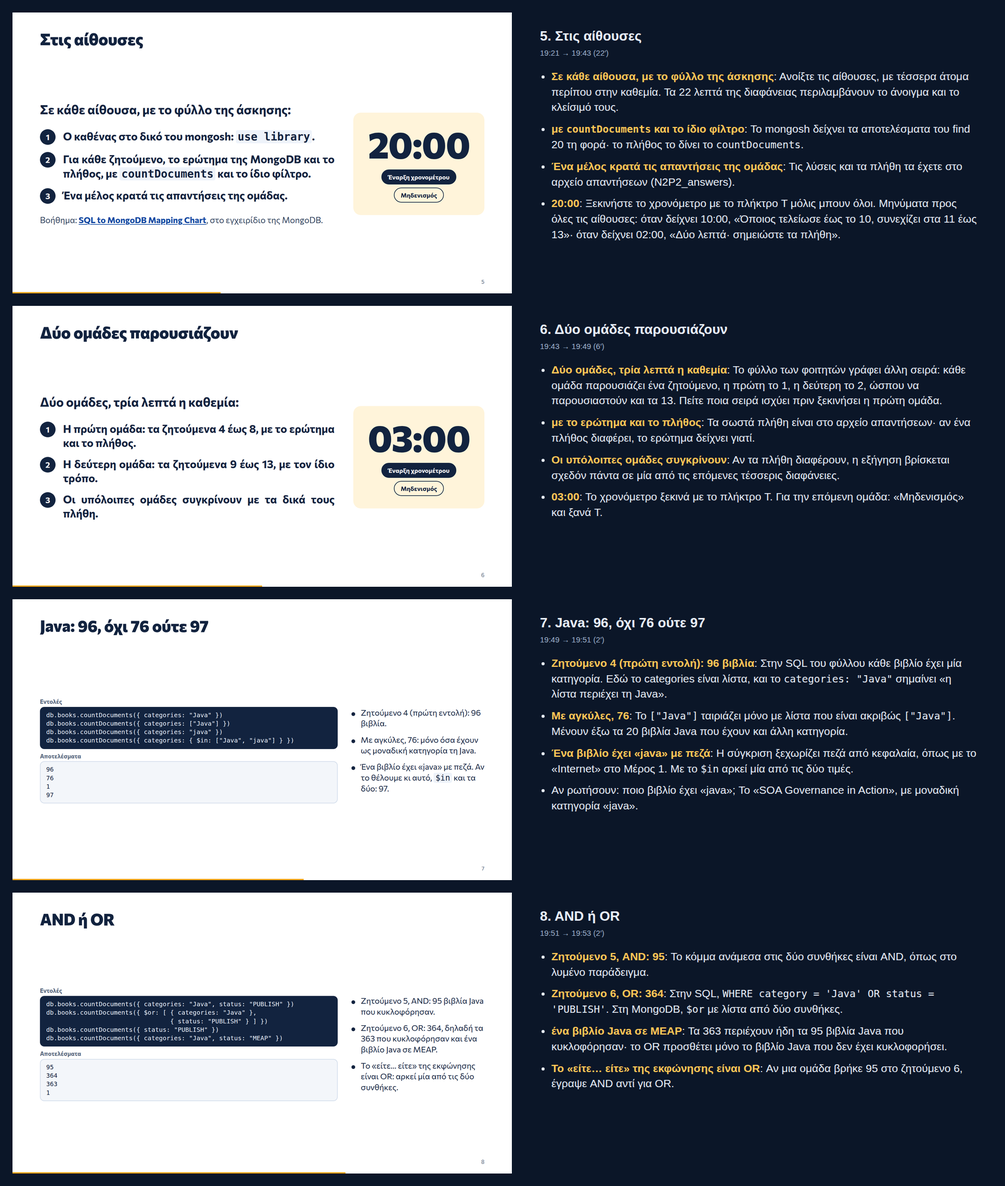
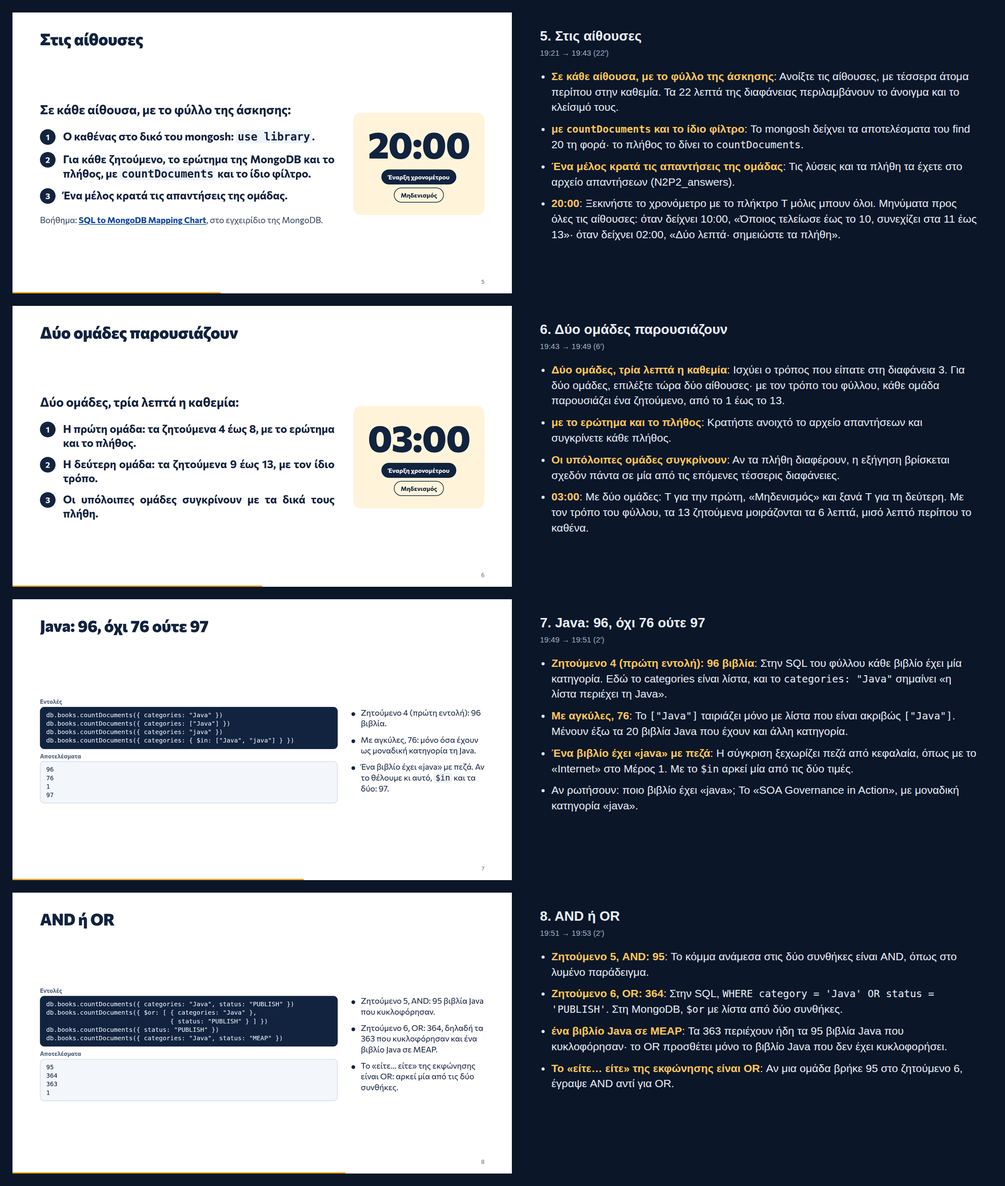
N2P2 notes: review fixes (presentation rule flagged on slide 3, tie on slide 4)
Slide 3 note 3 now flags that the sheet has another presentation rule and
asks the lecturer to say which applies; slide 6 notes 1 and 4 refer back to
it ([[s_how]]) and give the steps for either rule (13 items, 6 minutes from
generator variables). Slide 4 note 1 names the 325-page tie, checked in
books.json by the generator; wording fixes on slides 1, 4, 6 and 12.
Slide HTML unchanged; review images and README v15 slot updated.

Claude-Session: https://claude.ai/code/session_01MhLFYHdNRLpSBsLtxiJZNA

Changed region(s): [[0.559, 0.3114, 0.9627, 0.3737], [0.559, 0.4048, 0.9627, 0.4671]]

diff --git a/build_kit/out/N2P2.html b/build_kit/out/N2P2.html
@@ -535,7 +535,7 @@ db.books.countDocuments({ title: /^Java\b/ })</pre></div><div class="shlp"><p cl
 <nav class="ctl" aria-label="Πλοήγηση διαφανειών"><button type="button" id="bPrev" aria-label="Προηγούμενη διαφάνεια">‹</button><button type="button" id="bNext" aria-label="Επόμενη διαφάνεια">›</button><button type="button" id="bNotes" title="Σημειώσεις ομιλητή (N)">Σημειώσεις</button><button type="button" id="bHelp" title="Πλήκτρα (?)">?</button></nav>
 <div id="progress" aria-hidden="true"><i></i></div>
 <div id="help" hidden><div><h3>Πλήκτρα</h3><dl><div><dt>← →, Space</dt><dd>προηγούμενη, επόμενη διαφάνεια</dd></div><div><dt>N</dt><dd>παράθυρο σημειώσεων ομιλητή με ρολόι, ρυθμό και πλάνο</dd></div><div><dt>T</dt><dd>έναρξη ή παύση χρονομέτρου</dd></div><div><dt>F</dt><dd>πλήρης οθόνη</dd></div><div><dt>P</dt><dd>εκτύπωση ή αποθήκευση ως PDF, μία διαφάνεια ανά σελίδα</dd></div></dl><p>Άλλη ώρα έναρξης: προσθέστε <code>?start=15:15</code> στη διεύθυνση.</p></div></div>
-<script>window.DECK = {"meta":{"course":"Βάσεις Δεδομένων & Ανάλυση Δεδομένων Μάθησης","deckTitle":"Ομαδική άσκηση: από την SQL στη MongoDB","part":"Μη σχεσιακές βάσεις, Βραδιά 2, Μέρος 2","start":"19:15","lengthMin":45,"breakMin":15,"lang":"el","notesMarkup":true},"slides":[{"title":"Ομαδική άσκηση: από την SQL στη MongoDB","mins":1,"skippable":false,"notes":["**Μελετήστε τη σελίδα του εγχειριδίου**: Τη βλέπουμε στην επόμενη διαφάνεια. Κάθε ζητούμενο του φύλλου δίνεται και σε SQL· η σελίδα δείχνει πώς γράφεται ως ερώτημα της MongoDB.","**λύστε τα 13 ζητούμενα του φύλλου**: Αναρτήστε τώρα το φύλλο στην πλατφόρμα του μαθήματος ή στο chat του Zoom, μαζί με τον σύνδεσμο της σελίδας.","**Παρουσιάστε τα αποτελέσματα στην ολομέλεια**: Γίνεται όταν κλείσουν οι αίθουσες, πριν από τις λύσεις.","**ο καθένας δουλεύει στο δικό του mongosh**: Με τη συλλογή books που εισήγαγε στο Μέρος 1."],"type":"listslide","notesHtml":["<b>Μελετήστε τη σελίδα του εγχειριδίου</b>: Τη βλέπουμε στην επόμενη διαφάνεια. Κάθε ζητούμενο του φύλλου δίνεται και σε SQL· η σελίδα δείχνει πώς γράφεται ως ερώτημα της MongoDB.","<b>λύστε τα 13 ζητούμενα του φύλλου</b>: Αναρτήστε τώρα το φύλλο στην πλατφόρμα του μαθήματος ή στο chat του Zoom, μαζί με τον σύνδεσμο της σελίδας.","<b>Παρουσιάστε τα αποτελέσματα στην ολομέλεια</b>: Γίνεται όταν κλείσουν οι αίθουσες, πριν από τις λύσεις.","<b>ο καθένας δουλεύει στο δικό του mongosh</b>: Με τη συλλογή books που εισήγαγε στο Μέρος 1."],"titleHtml":"Ομαδική άσκηση: από την SQL στη MongoDB"},{"title":"Η σελίδα: SQL to MongoDB Mapping Chart","mins":2,"skippable":false,"notes":["**SQL, πίνακας people**: Τα παραδείγματα είναι της ίδιας της σελίδας, με τον δικό της πίνακα people. Στις δύο πρώτες γραμμές, το AND γίνεται κόμμα και το OR γίνεται `$or`.","**`{ age: { $gt: 25, $lte: 50 } }`**: Δύο συνθήκες στο ίδιο πεδίο: οι δύο τελεστές μπαίνουν στο ίδιο έγγραφο, όπως στο Μέρος 1.","**`{ user_id: /^bc/ }`**: Το LIKE γίνεται κανονική έκφραση: το `/^bc/` σημαίνει «αρχίζει από bc», όπως το `'bc%'`.","**Όπου γράφει `count()`, γράψτε `countDocuments()`**: Η σελίδα γράφει `db.people.count()`, που στο mongosh δίνει προειδοποίηση απόσυρσης."],"type":"htable","notesHtml":["<b>SQL, πίνακας people</b>: Τα παραδείγματα είναι της ίδιας της σελίδας, με τον δικό της πίνακα people. Στις δύο πρώτες γραμμές, το AND γίνεται κόμμα και το OR γίνεται <code>$or</code>.","<b><code>{ age: { $gt: 25, $lte: 50 } }</code></b>: Δύο συνθήκες στο ίδιο πεδίο: οι δύο τελεστές μπαίνουν στο ίδιο έγγραφο, όπως στο Μέρος 1.","<b><code>{ user_id: /^bc/ }</code></b>: Το LIKE γίνεται κανονική έκφραση: το <code>/^bc/</code> σημαίνει «αρχίζει από bc», όπως το <code>'bc%'</code>.","<b>Όπου γράφει <code>count()</code>, γράψτε <code>countDocuments()</code></b>: Η σελίδα γράφει <code>db.people.count()</code>, που στο mongosh δίνει προειδοποίηση απόσυρσης."],"titleHtml":"Η σελίδα: SQL to MongoDB Mapping Chart"},{"title":"Πώς δουλεύουμε","mins":1,"skippable":false,"notes":["**Ομάδες**: Όλες οι αίθουσες έχουν το ίδιο φύλλο, ώστε στο τέλος να συγκρίνονται τα πλήθη.","**`use library`**: Η βάση που δημιούργησε το mongoimport στο Μέρος 1. Αν μια ομάδα βρίσκει παντού 0, είναι ακόμη στη βάση test.","**Τι γράφετε**, **20 λεπτά στην αίθουσα**: Είναι γραμμένα και στο φύλλο, ώστε η αίθουσα να ξέρει τι κάνει χωρίς τις διαφάνειες.","**Χωρίς τη συλλογή**: Την εισαγωγή την ολοκληρώνει στο επόμενο διάλειμμα, με τη διαφάνεια 4 του Μέρους 1."],"type":"table","notesHtml":["<b>Ομάδες</b>: Όλες οι αίθουσες έχουν το ίδιο φύλλο, ώστε στο τέλος να συγκρίνονται τα πλήθη.","<b><code>use library</code></b>: Η βάση που δημιούργησε το mongoimport στο Μέρος 1. Αν μια ομάδα βρίσκει παντού 0, είναι ακόμη στη βάση test.","<b>Τι γράφετε</b>, <b>20 λεπτά στην αίθουσα</b>: Είναι γραμμένα και στο φύλλο, ώστε η αίθουσα να ξέρει τι κάνει χωρίς τις διαφάνειες.","<b>Χωρίς τη συλλογή</b>: Την εισαγωγή την ολοκληρώνει στο επόμενο διάλειμμα, με τη διαφάνεια 4 του Μέρους 1."],"titleHtml":"Πώς δουλεύουμε"},{"title":"Ένα λυμένο παράδειγμα","mins":2,"skippable":false,"notes":["**`WHERE status = 'MEAP' AND pageCount > 0`**: Ένα ερώτημα που δεν υπάρχει στο φύλλο: τα τρία βιβλία σε MEAP με τις περισσότερες σελίδες, από όσα έχουν γνωστό αριθμό σελίδων.","**`WHERE` γίνεται φίλτρο**: Το φίλτρο είναι το πρώτο όρισμα του find. Το `>` γίνεται `$gt`.","**`SELECT title, pageCount` γίνεται προβολή**: Το δεύτερο όρισμα του find. Χωρίς `_id: 0` θα εμφανιζόταν και το `_id`, που η SQL δεν ζητά.","**`ORDER BY … DESC` γίνεται `sort` με -1**: Η σειρά στο mongosh: find, μετά sort, μετά limit. Η σειρά γραφής των sort και limit δεν αλλάζει το αποτέλεσμα."],"type":"shell","notesHtml":["<b><code>WHERE status = 'MEAP' AND pageCount &gt; 0</code></b>: Ένα ερώτημα που δεν υπάρχει στο φύλλο: τα τρία βιβλία σε MEAP με τις περισσότερες σελίδες, από όσα έχουν γνωστό αριθμό σελίδων.","<b><code>WHERE</code> γίνεται φίλτρο</b>: Το φίλτρο είναι το πρώτο όρισμα του find. Το <code>&gt;</code> γίνεται <code>$gt</code>.","<b><code>SELECT title, pageCount</code> γίνεται προβολή</b>: Το δεύτερο όρισμα του find. Χωρίς <code>_id: 0</code> θα εμφανιζόταν και το <code>_id</code>, που η SQL δεν ζητά.","<b><code>ORDER BY … DESC</code> γίνεται <code>sort</code> με -1</b>: Η σειρά στο mongosh: find, μετά sort, μετά limit. Η σειρά γραφής των sort και limit δεν αλλάζει το αποτέλεσμα."],"titleHtml":"Ένα λυμένο παράδειγμα"},{"title":"Στις αίθουσες","mins":22,"skippable":false,"notes":["**Σε κάθε αίθουσα, με το φύλλο της άσκησης**: Ανοίξτε τις αίθουσες, με τέσσερα άτομα περίπου στην καθεμία. Τα 22 λεπτά της διαφάνειας περιλαμβάνουν το άνοιγμα και το κλείσιμό τους.","**με `countDocuments` και το ίδιο φίλτρο**: Το mongosh δείχνει τα αποτελέσματα του find 20 τη φορά· το πλήθος το δίνει το `countDocuments`.","**Ένα μέλος κρατά τις απαντήσεις της ομάδας**: Τις λύσεις και τα πλήθη τα έχετε στο αρχείο απαντήσεων (N2P2_answers).","**20:00**: Ξεκινήστε το χρονόμετρο με το πλήκτρο T μόλις μπουν όλοι. Μηνύματα προς όλες τις αίθουσες: όταν δείχνει 10:00, «Όποιος τελείωσε έως το 10, συνεχίζει στα 11 έως 13»· όταν δείχνει 02:00, «Δύο λεπτά· σημειώστε τα πλήθη»."],"type":"work","notesHtml":["<b>Σε κάθε αίθουσα, με το φύλλο της άσκησης</b>: Ανοίξτε τις αίθουσες, με τέσσερα άτομα περίπου στην καθεμία. Τα 22 λεπτά της διαφάνειας περιλαμβάνουν το άνοιγμα και το κλείσιμό τους.","<b>με <code>countDocuments</code> και το ίδιο φίλτρο</b>: Το mongosh δείχνει τα αποτελέσματα του find 20 τη φορά· το πλήθος το δίνει το <code>countDocuments</code>.","<b>Ένα μέλος κρατά τις απαντήσεις της ομάδας</b>: Τις λύσεις και τα πλήθη τα έχετε στο αρχείο απαντήσεων (N2P2_answers).","<b>20:00</b>: Ξεκινήστε το χρονόμετρο με το πλήκτρο T μόλις μπουν όλοι. Μηνύματα προς όλες τις αίθουσες: όταν δείχνει 10:00, «Όποιος τελείωσε έως το 10, συνεχίζει στα 11 έως 13»· όταν δείχνει 02:00, «Δύο λεπτά· σημειώστε τα πλήθη»."],"titleHtml":"Στις αίθουσες"},{"title":"Δύο ομάδες παρουσιάζουν","mins":6,"skippable":false,"notes":["**Δύο ομάδες, τρία λεπτά η καθεμία**: Το φύλλο των φοιτητών γράφει άλλη σειρά: κάθε ομάδα παρουσιάζει ένα ζητούμενο, η πρώτη το 1, η δεύτερη το 2, ώσπου να παρουσιαστούν και τα 13. Πείτε ποια σειρά ισχύει πριν ξεκινήσει η πρώτη ομάδα.","**με το ερώτημα και το πλήθος**: Τα σωστά πλήθη είναι στο αρχείο απαντήσεων· αν ένα πλήθος διαφέρει, το ερώτημα δείχνει γιατί.","**Οι υπόλοιπες ομάδες συγκρίνουν**: Αν τα πλήθη διαφέρουν, η εξήγηση βρίσκεται σχεδόν πάντα σε μία από τις επόμενες τέσσερις διαφάνειες.","**03:00**: Το χρονόμετρο ξεκινά με το πλήκτρο T. Για την επόμενη ομάδα: «Μηδενισμός» και ξανά T."],"type":"work","notesHtml":["<b>Δύο ομάδες, τρία λεπτά η καθεμία</b>: Το φύλλο των φοιτητών γράφει άλλη σειρά: κάθε ομάδα παρουσιάζει ένα ζητούμενο, η πρώτη το 1, η δεύτερη το 2, ώσπου να παρουσιαστούν και τα 13. Πείτε ποια σειρά ισχύει πριν ξεκινήσει η πρώτη ομάδα.","<b>με το ερώτημα και το πλήθος</b>: Τα σωστά πλήθη είναι στο αρχείο απαντήσεων· αν ένα πλήθος διαφέρει, το ερώτημα δείχνει γιατί.","<b>Οι υπόλοιπες ομάδες συγκρίνουν</b>: Αν τα πλήθη διαφέρουν, η εξήγηση βρίσκεται σχεδόν πάντα σε μία από τις επόμενες τέσσερις διαφάνειες.","<b>03:00</b>: Το χρονόμετρο ξεκινά με το πλήκτρο T. Για την επόμενη ομάδα: «Μηδενισμός» και ξανά T."],"titleHtml":"Δύο ομάδες παρουσιάζουν"},{"title":"Java: 96, όχι 76 ούτε 97","mins":2,"skippable":false,"notes":["**Ζητούμενο 4 (πρώτη εντολή): 96 βιβλία**: Στην SQL του φύλλου κάθε βιβλίο έχει μία κατηγορία. Εδώ το categories είναι λίστα, και το `categories: \"Java\"` σημαίνει «η λίστα περιέχει τη Java».","**Με αγκύλες, 76**: Το `[\"Java\"]` ταιριάζει μόνο με λίστα που είναι ακριβώς `[\"Java\"]`. Μένουν έξω τα 20 βιβλία Java που έχουν και άλλη κατηγορία.","**Ένα βιβλίο έχει «java» με πεζά**: Η σύγκριση ξεχωρίζει πεζά από κεφαλαία, όπως με το «Internet» στο Μέρος 1. Με το `$in` αρκεί μία από τις δύο τιμές.","Αν ρωτήσουν: ποιο βιβλίο έχει «java»; Το «SOA Governance in Action», με μοναδική κατηγορία «java»."],"type":"shell","notesHtml":["<b>Ζητούμενο 4 (πρώτη εντολή): 96 βιβλία</b>: Στην SQL του φύλλου κάθε βιβλίο έχει μία κατηγορία. Εδώ το categories είναι λίστα, και το <code>categories: \"Java\"</code> σημαίνει «η λίστα περιέχει τη Java».","<b>Με αγκύλες, 76</b>: Το <code>[\"Java\"]</code> ταιριάζει μόνο με λίστα που είναι ακριβώς <code>[\"Java\"]</code>. Μένουν έξω τα 20 βιβλία Java που έχουν και άλλη κατηγορία.","<b>Ένα βιβλίο έχει «java» με πεζά</b>: Η σύγκριση ξεχωρίζει πεζά από κεφαλαία, όπως με το «Internet» στο Μέρος 1. Με το <code>$in</code> αρκεί μία από τις δύο τιμές.","Αν ρωτήσουν: ποιο βιβλίο έχει «java»; Το «SOA Governance in Action», με μοναδική κατηγορία «java»."],"titleHtml":"Java: 96, όχι 76 ούτε 97"},{"title":"AND ή OR","mins":2,"skippable":false,"notes":["**Ζητούμενο 5, AND: 95**: Το κόμμα ανάμεσα στις δύο συνθήκες είναι AND, όπως στο λυμένο παράδειγμα.","**Ζητούμενο 6, OR: 364**: Στην SQL, `WHERE category = 'Java' OR status = 'PUBLISH'`. Στη MongoDB, `$or` με λίστα από δύο συνθήκες.","**ένα βιβλίο Java σε MEAP**: Τα 363 περιέχουν ήδη τα 95 βιβλία Java που κυκλοφόρησαν· το OR προσθέτει μόνο το βιβλίο Java που δεν έχει κυκλοφορήσει.","**Το «είτε… είτε» της εκφώνησης είναι OR**: Αν μια ομάδα βρήκε 95 στο ζητούμενο 6, έγραψε AND αντί για OR."],"type":"shell","notesHtml":["<b>Ζητούμενο 5, AND: 95</b>: Το κόμμα ανάμεσα στις δύο συνθήκες είναι AND, όπως στο λυμένο παράδειγμα.","<b>Ζητούμενο 6, OR: 364</b>: Στην SQL, <code>WHERE category = 'Java' OR status = 'PUBLISH'</code>. Στη MongoDB, <code>$or</code> με λίστα από δύο συνθήκες.","<b>ένα βιβλίο Java σε MEAP</b>: Τα 363 περιέχουν ήδη τα 95 βιβλία Java που κυκλοφόρησαν· το OR προσθέτει μόνο το βιβλίο Java που δεν έχει κυκλοφορήσει.","<b>Το «είτε… είτε» της εκφώνησης είναι OR</b>: Αν μια ομάδα βρήκε 95 στο ζητούμενο 6, έγραψε AND αντί για OR."],"titleHtml":"AND ή OR"},{"title":"Ταξινόμηση κειμένου: τα πεζά στο τέλος","mins":2,"skippable":true,"notes":["**`.sort({ title: -1 }).limit(3)`**: Φθίνουσα σειρά, ώστε να φαίνεται το τέλος της αύξουσας λίστας του ζητούμενου 8.","**όλα τα κεφαλαία πριν από τα πεζά**: Γι’ αυτό, στο ζητούμενο 8, τα «iText» και «jQuery» έρχονται μετά από όλους τους τίτλους που αρχίζουν με κεφαλαίο.","**Με `collation` και `locale: \"en\"`**: Η δεύτερη εντολή· τα «jQuery» και «iText» φεύγουν από την κορυφή. Στην SQL, η σειρά εξαρτάται από τη συρραφή (collation) της βάσης.","**τα 19 βιβλία Java με 0 σελίδες**: Στη φθίνουσα σειρά σελίδων το 0 πηγαίνει στο τέλος. Εδώ σημαίνει «άγνωστος αριθμός», όπως στο Μέρος 1."],"type":"shell","notesHtml":["<b><code>.sort({ title: -1 }).limit(3)</code></b>: Φθίνουσα σειρά, ώστε να φαίνεται το τέλος της αύξουσας λίστας του ζητούμενου 8.","<b>όλα τα κεφαλαία πριν από τα πεζά</b>: Γι’ αυτό, στο ζητούμενο 8, τα «iText» και «jQuery» έρχονται μετά από όλους τους τίτλους που αρχίζουν με κεφαλαίο.","<b>Με <code>collation</code> και <code>locale: \"en\"</code></b>: Η δεύτερη εντολή· τα «jQuery» και «iText» φεύγουν από την κορυφή. Στην SQL, η σειρά εξαρτάται από τη συρραφή (collation) της βάσης.","<b>τα 19 βιβλία Java με 0 σελίδες</b>: Στη φθίνουσα σειρά σελίδων το 0 πηγαίνει στο τέλος. Εδώ σημαίνει «άγνωστος αριθμός», όπως στο Μέρος 1."],"titleHtml":"Ταξινόμηση κειμένου: τα πεζά στο τέλος"},{"title":"Κείμενο: λέξη ή κομμάτι λέξης","mins":2,"skippable":true,"notes":["**Ζητούμενο 11: το `/Java/` βρίσκει 38 τίτλους**: Αντιστοιχεί στο `LIKE '%Java%'` του φύλλου· βρίσκει τη Java και μέσα σε άλλες λέξεις.","**`\\b` πριν και μετά, 29**: Το `\\b` σημαίνει «όριο λέξης»: ανάμεσα σε γράμμα και σε κενό, σημείο στίξης ή αρχή και τέλος του τίτλου.","**οι 3 από αυτούς**: Είναι οι «JavaServer Faces in Action», «JavaFX in Action» και «JavaScript Application Design». Με `/^Java\\b/` μένουν 11.","**η `.` της regex αντιστοιχεί στο `_` του LIKE της SQL**: Στο φύλλο, `LIKE '_a_a%'`. Το `^` σημαίνει «στην αρχή», όπως στο `/^bc/` της διαφάνειας 2."],"type":"shell","notesHtml":["<b>Ζητούμενο 11: το <code>/Java/</code> βρίσκει 38 τίτλους</b>: Αντιστοιχεί στο <code>LIKE '%Java%'</code> του φύλλου· βρίσκει τη Java και μέσα σε άλλες λέξεις.","<b><code>\\b</code> πριν και μετά, 29</b>: Το <code>\\b</code> σημαίνει «όριο λέξης»: ανάμεσα σε γράμμα και σε κενό, σημείο στίξης ή αρχή και τέλος του τίτλου.","<b>οι 3 από αυτούς</b>: Είναι οι «JavaServer Faces in Action», «JavaFX in Action» και «JavaScript Application Design». Με <code>/^Java\\b/</code> μένουν 11.","<b>η <code>.</code> της regex αντιστοιχεί στο <code>_</code> του LIKE της SQL</b>: Στο φύλλο, <code>LIKE '_a_a%'</code>. Το <code>^</code> σημαίνει «στην αρχή», όπως στο <code>/^bc/</code> της διαφάνειας 2."],"titleHtml":"Κείμενο: λέξη ή κομμάτι λέξης"},{"title":"Τρία σημεία από το Μέρος 2","mins":1,"skippable":false,"notes":["**Τρία σημεία από το Μέρος 2**: Διαβάστε τα τρία σημεία, χωρίς νέα ύλη. Αν απομένει χρόνος, το διάλειμμα ξεκινά νωρίτερα.","**SQL και MongoDB λένε το ίδιο με άλλη σύνταξη**: Είναι οι αντιστοιχίες της σελίδας του εγχειριδίου και του λυμένου παραδείγματος.","**η ισότητα σημαίνει «περιέχει»**: Γι’ αυτό το ζητούμενο 4 δίνει 96 βιβλία και όχι 76.","**Java, java και JavaScript**: Το «java» με πεζά είναι άλλη τιμή, και το `/Java/` βρίσκει και το JavaScript."],"type":"remember","notesHtml":["<b>Τρία σημεία από το Μέρος 2</b>: Διαβάστε τα τρία σημεία, χωρίς νέα ύλη. Αν απομένει χρόνος, το διάλειμμα ξεκινά νωρίτερα.","<b>SQL και MongoDB λένε το ίδιο με άλλη σύνταξη</b>: Είναι οι αντιστοιχίες της σελίδας του εγχειριδίου και του λυμένου παραδείγματος.","<b>η ισότητα σημαίνει «περιέχει»</b>: Γι’ αυτό το ζητούμενο 4 δίνει 96 βιβλία και όχι 76.","<b>Java, java και JavaScript</b>: Το «java» με πεζά είναι άλλη τιμή, και το <code>/Java/</code> βρίσκει και το JavaScript."],"titleHtml":"Τρία σημεία από το Μέρος 2"},{"title":"Διάλειμμα","mins":2,"skippable":false,"notes":["**Επιστρέφουμε σε 15′**: Αφήστε τη διαφάνεια στην οθόνη σε όλο το διάλειμμα· η αντίστροφη μέτρηση ξεκινά μόνη της.","**Στο Μέρος 3**: Χρειάζεται ξανά η συλλογή books. Όποιος δεν ολοκλήρωσε την εισαγωγή, την ολοκληρώνει τώρα, με τη διαφάνεια 4 του Μέρους 1.","**η Εργασία 2 ενότητα προς ενότητα**: Οι ερωτήσεις για την Εργασία 2 έχουν χρόνο στο τέλος του Μέρους 3."],"type":"break","notesHtml":["<b>Επιστρέφουμε σε 15′</b>: Αφήστε τη διαφάνεια στην οθόνη σε όλο το διάλειμμα· η αντίστροφη μέτρηση ξεκινά μόνη της.","<b>Στο Μέρος 3</b>: Χρειάζεται ξανά η συλλογή books. Όποιος δεν ολοκλήρωσε την εισαγωγή, την ολοκληρώνει τώρα, με τη διαφάνεια 4 του Μέρους 1.","<b>η Εργασία 2 ενότητα προς ενότητα</b>: Οι ερωτήσεις για την Εργασία 2 έχουν χρόνο στο τέλος του Μέρους 3."],"titleHtml":"Διάλειμμα"}]};</script><script>(function () {
+<script>window.DECK = {"meta":{"course":"Βάσεις Δεδομένων & Ανάλυση Δεδομένων Μάθησης","deckTitle":"Ομαδική άσκηση: από την SQL στη MongoDB","part":"Μη σχεσιακές βάσεις, Βραδιά 2, Μέρος 2","start":"19:15","lengthMin":45,"breakMin":15,"lang":"el","notesMarkup":true},"slides":[{"title":"Ομαδική άσκηση: από την SQL στη MongoDB","mins":1,"skippable":false,"notes":["**Μελετήστε τη σελίδα του εγχειριδίου**: Τη βλέπουμε στην επόμενη διαφάνεια. Κάθε ζητούμενο του φύλλου δίνεται και σε SQL· η σελίδα δείχνει πώς γράφονται οι εντολές της SQL στη MongoDB.","**λύστε τα 13 ζητούμενα του φύλλου**: Αναρτήστε τώρα το φύλλο στην πλατφόρμα του μαθήματος ή στο chat του Zoom, μαζί με τον σύνδεσμο της σελίδας.","**Παρουσιάστε τα αποτελέσματα στην ολομέλεια**: Γίνεται όταν κλείσουν οι αίθουσες, πριν από τις λύσεις.","**ο καθένας δουλεύει στο δικό του mongosh**: Με τη συλλογή books που εισήγαγε στο Μέρος 1."],"type":"listslide","notesHtml":["<b>Μελετήστε τη σελίδα του εγχειριδίου</b>: Τη βλέπουμε στην επόμενη διαφάνεια. Κάθε ζητούμενο του φύλλου δίνεται και σε SQL· η σελίδα δείχνει πώς γράφονται οι εντολές της SQL στη MongoDB.","<b>λύστε τα 13 ζητούμενα του φύλλου</b>: Αναρτήστε τώρα το φύλλο στην πλατφόρμα του μαθήματος ή στο chat του Zoom, μαζί με τον σύνδεσμο της σελίδας.","<b>Παρουσιάστε τα αποτελέσματα στην ολομέλεια</b>: Γίνεται όταν κλείσουν οι αίθουσες, πριν από τις λύσεις.","<b>ο καθένας δουλεύει στο δικό του mongosh</b>: Με τη συλλογή books που εισήγαγε στο Μέρος 1."],"titleHtml":"Ομαδική άσκηση: από την SQL στη MongoDB"},{"title":"Η σελίδα: SQL to MongoDB Mapping Chart","mins":2,"skippable":false,"notes":["**SQL, πίνακας people**: Τα παραδείγματα είναι της ίδιας της σελίδας, με τον δικό της πίνακα people. Στις δύο πρώτες γραμμές, το AND γίνεται κόμμα και το OR γίνεται `$or`.","**`{ age: { $gt: 25, $lte: 50 } }`**: Δύο συνθήκες στο ίδιο πεδίο: οι δύο τελεστές μπαίνουν στο ίδιο έγγραφο, όπως στο Μέρος 1.","**`{ user_id: /^bc/ }`**: Το LIKE γίνεται κανονική έκφραση: το `/^bc/` σημαίνει «αρχίζει από bc», όπως το `'bc%'`.","**Όπου γράφει `count()`, γράψτε `countDocuments()`**: Η σελίδα γράφει `db.people.count()`, που στο mongosh δίνει προειδοποίηση απόσυρσης."],"type":"htable","notesHtml":["<b>SQL, πίνακας people</b>: Τα παραδείγματα είναι της ίδιας της σελίδας, με τον δικό της πίνακα people. Στις δύο πρώτες γραμμές, το AND γίνεται κόμμα και το OR γίνεται <code>$or</code>.","<b><code>{ age: { $gt: 25, $lte: 50 } }</code></b>: Δύο συνθήκες στο ίδιο πεδίο: οι δύο τελεστές μπαίνουν στο ίδιο έγγραφο, όπως στο Μέρος 1.","<b><code>{ user_id: /^bc/ }</code></b>: Το LIKE γίνεται κανονική έκφραση: το <code>/^bc/</code> σημαίνει «αρχίζει από bc», όπως το <code>'bc%'</code>.","<b>Όπου γράφει <code>count()</code>, γράψτε <code>countDocuments()</code></b>: Η σελίδα γράφει <code>db.people.count()</code>, που στο mongosh δίνει προειδοποίηση απόσυρσης."],"titleHtml":"Η σελίδα: SQL to MongoDB Mapping Chart"},{"title":"Πώς δουλεύουμε","mins":1,"skippable":false,"notes":["**Ομάδες**: Όλες οι αίθουσες έχουν το ίδιο φύλλο, ώστε στο τέλος να συγκρίνονται τα πλήθη.","**`use library`**: Η βάση που δημιούργησε το mongoimport στο Μέρος 1. Αν μια ομάδα βρίσκει παντού 0, είναι ακόμη στη βάση test.","**Τι γράφετε**, **20 λεπτά στην αίθουσα**: Είναι γραμμένα και στο φύλλο. Για την παρουσίαση όμως το φύλλο γράφει άλλον τρόπο: κάθε ομάδα ένα ζητούμενο, με τη σειρά, ώσπου να παρουσιαστούν και τα 13· πείτε τώρα ποιος ισχύει.","**Χωρίς τη συλλογή**: Την εισαγωγή την ολοκληρώνει στο επόμενο διάλειμμα, με τη διαφάνεια 4 του Μέρους 1."],"type":"table","notesHtml":["<b>Ομάδες</b>: Όλες οι αίθουσες έχουν το ίδιο φύλλο, ώστε στο τέλος να συγκρίνονται τα πλήθη.","<b><code>use library</code></b>: Η βάση που δημιούργησε το mongoimport στο Μέρος 1. Αν μια ομάδα βρίσκει παντού 0, είναι ακόμη στη βάση test.","<b>Τι γράφετε</b>, <b>20 λεπτά στην αίθουσα</b>: Είναι γραμμένα και στο φύλλο. Για την παρουσίαση όμως το φύλλο γράφει άλλον τρόπο: κάθε ομάδα ένα ζητούμενο, με τη σειρά, ώσπου να παρουσιαστούν και τα 13· πείτε τώρα ποιος ισχύει.","<b>Χωρίς τη συλλογή</b>: Την εισαγωγή την ολοκληρώνει στο επόμενο διάλειμμα, με τη διαφάνεια 4 του Μέρους 1."],"titleHtml":"Πώς δουλεύουμε"},{"title":"Ένα λυμένο παράδειγμα","mins":2,"skippable":false,"notes":["**`WHERE status = 'MEAP' AND pageCount > 0`**: Ένα ερώτημα που δεν υπάρχει στο φύλλο: βιβλία σε MEAP με γνωστό αριθμό σελίδων, τα τρία πρώτα κατά σελίδες. Στις 325 σελίδες ισοβαθμεί και το «The Engaging Web»· σε άλλον υπολογιστή μπορεί να βγει αυτό τρίτο.","**`WHERE` γίνεται φίλτρο**: Το φίλτρο είναι το πρώτο όρισμα του find. Το `>` γίνεται `$gt`.","**`SELECT title, pageCount` γίνεται προβολή**: Το δεύτερο όρισμα του find. Χωρίς `_id: 0` θα εμφανιζόταν και το `_id`, που η SQL δεν ζητά.","**`ORDER BY … DESC` γίνεται `sort` με -1**: Το mongosh πρώτα ταξινομεί και μετά κρατά τα τρία πρώτα, όποια σειρά κι αν γράψουμε τα sort και limit."],"type":"shell","notesHtml":["<b><code>WHERE status = 'MEAP' AND pageCount &gt; 0</code></b>: Ένα ερώτημα που δεν υπάρχει στο φύλλο: βιβλία σε MEAP με γνωστό αριθμό σελίδων, τα τρία πρώτα κατά σελίδες. Στις 325 σελίδες ισοβαθμεί και το «The Engaging Web»· σε άλλον υπολογιστή μπορεί να βγει αυτό τρίτο.","<b><code>WHERE</code> γίνεται φίλτρο</b>: Το φίλτρο είναι το πρώτο όρισμα του find. Το <code>&gt;</code> γίνεται <code>$gt</code>.","<b><code>SELECT title, pageCount</code> γίνεται προβολή</b>: Το δεύτερο όρισμα του find. Χωρίς <code>_id: 0</code> θα εμφανιζόταν και το <code>_id</code>, που η SQL δεν ζητά.","<b><code>ORDER BY … DESC</code> γίνεται <code>sort</code> με -1</b>: Το mongosh πρώτα ταξινομεί και μετά κρατά τα τρία πρώτα, όποια σειρά κι αν γράψουμε τα sort και limit."],"titleHtml":"Ένα λυμένο παράδειγμα"},{"title":"Στις αίθουσες","mins":22,"skippable":false,"notes":["**Σε κάθε αίθουσα, με το φύλλο της άσκησης**: Ανοίξτε τις αίθουσες, με τέσσερα άτομα περίπου στην καθεμία. Τα 22 λεπτά της διαφάνειας περιλαμβάνουν το άνοιγμα και το κλείσιμό τους.","**με `countDocuments` και το ίδιο φίλτρο**: Το mongosh δείχνει τα αποτελέσματα του find 20 τη φορά· το πλήθος το δίνει το `countDocuments`.","**Ένα μέλος κρατά τις απαντήσεις της ομάδας**: Τις λύσεις και τα πλήθη τα έχετε στο αρχείο απαντήσεων (N2P2_answers).","**20:00**: Ξεκινήστε το χρονόμετρο με το πλήκτρο T μόλις μπουν όλοι. Μηνύματα προς όλες τις αίθουσες: όταν δείχνει 10:00, «Όποιος τελείωσε έως το 10, συνεχίζει στα 11 έως 13»· όταν δείχνει 02:00, «Δύο λεπτά· σημειώστε τα πλήθη»."],"type":"work","notesHtml":["<b>Σε κάθε αίθουσα, με το φύλλο της άσκησης</b>: Ανοίξτε τις αίθουσες, με τέσσερα άτομα περίπου στην καθεμία. Τα 22 λεπτά της διαφάνειας περιλαμβάνουν το άνοιγμα και το κλείσιμό τους.","<b>με <code>countDocuments</code> και το ίδιο φίλτρο</b>: Το mongosh δείχνει τα αποτελέσματα του find 20 τη φορά· το πλήθος το δίνει το <code>countDocuments</code>.","<b>Ένα μέλος κρατά τις απαντήσεις της ομάδας</b>: Τις λύσεις και τα πλήθη τα έχετε στο αρχείο απαντήσεων (N2P2_answers).","<b>20:00</b>: Ξεκινήστε το χρονόμετρο με το πλήκτρο T μόλις μπουν όλοι. Μηνύματα προς όλες τις αίθουσες: όταν δείχνει 10:00, «Όποιος τελείωσε έως το 10, συνεχίζει στα 11 έως 13»· όταν δείχνει 02:00, «Δύο λεπτά· σημειώστε τα πλήθη»."],"titleHtml":"Στις αίθουσες"},{"title":"Δύο ομάδες παρουσιάζουν","mins":6,"skippable":false,"notes":["**Δύο ομάδες, τρία λεπτά η καθεμία**: Ισχύει ο τρόπος που είπατε στη διαφάνεια 3. Για δύο ομάδες, επιλέξτε τώρα δύο αίθουσες· με τον τρόπο του φύλλου, κάθε ομάδα παρουσιάζει ένα ζητούμενο, από το 1 έως το 13.","**με το ερώτημα και το πλήθος**: Κρατήστε ανοιχτό το αρχείο απαντήσεων και συγκρίνετε κάθε πλήθος.","**Οι υπόλοιπες ομάδες συγκρίνουν**: Αν τα πλήθη διαφέρουν, η εξήγηση βρίσκεται σχεδόν πάντα σε μία από τις επόμενες τέσσερις διαφάνειες.","**03:00**: Με δύο ομάδες: T για την πρώτη, «Μηδενισμός» και ξανά T για τη δεύτερη. Με τον τρόπο του φύλλου, τα 13 ζητούμενα μοιράζονται τα 6 λεπτά, μισό λεπτό περίπου το καθένα."],"type":"work","notesHtml":["<b>Δύο ομάδες, τρία λεπτά η καθεμία</b>: Ισχύει ο τρόπος που είπατε στη διαφάνεια 3. Για δύο ομάδες, επιλέξτε τώρα δύο αίθουσες· με τον τρόπο του φύλλου, κάθε ομάδα παρουσιάζει ένα ζητούμενο, από το 1 έως το 13.","<b>με το ερώτημα και το πλήθος</b>: Κρατήστε ανοιχτό το αρχείο απαντήσεων και συγκρίνετε κάθε πλήθος.","<b>Οι υπόλοιπες ομάδες συγκρίνουν</b>: Αν τα πλήθη διαφέρουν, η εξήγηση βρίσκεται σχεδόν πάντα σε μία από τις επόμενες τέσσερις διαφάνειες.","<b>03:00</b>: Με δύο ομάδες: T για την πρώτη, «Μηδενισμός» και ξανά T για τη δεύτερη. Με τον τρόπο του φύλλου, τα 13 ζητούμενα μοιράζονται τα 6 λεπτά, μισό λεπτό περίπου το καθένα."],"titleHtml":"Δύο ομάδες παρουσιάζουν"},{"title":"Java: 96, όχι 76 ούτε 97","mins":2,"skippable":false,"notes":["**Ζητούμενο 4 (πρώτη εντολή): 96 βιβλία**: Στην SQL του φύλλου κάθε βιβλίο έχει μία κατηγορία. Εδώ το categories είναι λίστα, και το `categories: \"Java\"` σημαίνει «η λίστα περιέχει τη Java».","**Με αγκύλες, 76**: Το `[\"Java\"]` ταιριάζει μόνο με λίστα που είναι ακριβώς `[\"Java\"]`. Μένουν έξω τα 20 βιβλία Java που έχουν και άλλη κατηγορία.","**Ένα βιβλίο έχει «java» με πεζά**: Η σύγκριση ξεχωρίζει πεζά από κεφαλαία, όπως με το «Internet» στο Μέρος 1. Με το `$in` αρκεί μία από τις δύο τιμές.","Αν ρωτήσουν: ποιο βιβλίο έχει «java»; Το «SOA Governance in Action», με μοναδική κατηγορία «java»."],"type":"shell","notesHtml":["<b>Ζητούμενο 4 (πρώτη εντολή): 96 βιβλία</b>: Στην SQL του φύλλου κάθε βιβλίο έχει μία κατηγορία. Εδώ το categories είναι λίστα, και το <code>categories: \"Java\"</code> σημαίνει «η λίστα περιέχει τη Java».","<b>Με αγκύλες, 76</b>: Το <code>[\"Java\"]</code> ταιριάζει μόνο με λίστα που είναι ακριβώς <code>[\"Java\"]</code>. Μένουν έξω τα 20 βιβλία Java που έχουν και άλλη κατηγορία.","<b>Ένα βιβλίο έχει «java» με πεζά</b>: Η σύγκριση ξεχωρίζει πεζά από κεφαλαία, όπως με το «Internet» στο Μέρος 1. Με το <code>$in</code> αρκεί μία από τις δύο τιμές.","Αν ρωτήσουν: ποιο βιβλίο έχει «java»; Το «SOA Governance in Action», με μοναδική κατηγορία «java»."],"titleHtml":"Java: 96, όχι 76 ούτε 97"},{"title":"AND ή OR","mins":2,"skippable":false,"notes":["**Ζητούμενο 5, AND: 95**: Το κόμμα ανάμεσα στις δύο συνθήκες είναι AND, όπως στο λυμένο παράδειγμα.","**Ζητούμενο 6, OR: 364**: Στην SQL, `WHERE category = 'Java' OR status = 'PUBLISH'`. Στη MongoDB, `$or` με λίστα από δύο συνθήκες.","**ένα βιβλίο Java σε MEAP**: Τα 363 περιέχουν ήδη τα 95 βιβλία Java που κυκλοφόρησαν· το OR προσθέτει μόνο το βιβλίο Java που δεν έχει κυκλοφορήσει.","**Το «είτε… είτε» της εκφώνησης είναι OR**: Αν μια ομάδα βρήκε 95 στο ζητούμενο 6, έγραψε AND αντί για OR."],"type":"shell","notesHtml":["<b>Ζητούμενο 5, AND: 95</b>: Το κόμμα ανάμεσα στις δύο συνθήκες είναι AND, όπως στο λυμένο παράδειγμα.","<b>Ζητούμενο 6, OR: 364</b>: Στην SQL, <code>WHERE category = 'Java' OR status = 'PUBLISH'</code>. Στη MongoDB, <code>$or</code> με λίστα από δύο συνθήκες.","<b>ένα βιβλίο Java σε MEAP</b>: Τα 363 περιέχουν ήδη τα 95 βιβλία Java που κυκλοφόρησαν· το OR προσθέτει μόνο το βιβλίο Java που δεν έχει κυκλοφορήσει.","<b>Το «είτε… είτε» της εκφώνησης είναι OR</b>: Αν μια ομάδα βρήκε 95 στο ζητούμενο 6, έγραψε AND αντί για OR."],"titleHtml":"AND ή OR"},{"title":"Ταξινόμηση κειμένου: τα πεζά στο τέλος","mins":2,"skippable":true,"notes":["**`.sort({ title: -1 }).limit(3)`**: Φθίνουσα σειρά, ώστε να φαίνεται το τέλος της αύξουσας λίστας του ζητούμενου 8.","**όλα τα κεφαλαία πριν από τα πεζά**: Γι’ αυτό, στο ζητούμενο 8, τα «iText» και «jQuery» έρχονται μετά από όλους τους τίτλους που αρχίζουν με κεφαλαίο.","**Με `collation` και `locale: \"en\"`**: Η δεύτερη εντολή· τα «jQuery» και «iText» φεύγουν από την κορυφή. Στην SQL, η σειρά εξαρτάται από τη συρραφή (collation) της βάσης.","**τα 19 βιβλία Java με 0 σελίδες**: Στη φθίνουσα σειρά σελίδων το 0 πηγαίνει στο τέλος. Εδώ σημαίνει «άγνωστος αριθμός», όπως στο Μέρος 1."],"type":"shell","notesHtml":["<b><code>.sort({ title: -1 }).limit(3)</code></b>: Φθίνουσα σειρά, ώστε να φαίνεται το τέλος της αύξουσας λίστας του ζητούμενου 8.","<b>όλα τα κεφαλαία πριν από τα πεζά</b>: Γι’ αυτό, στο ζητούμενο 8, τα «iText» και «jQuery» έρχονται μετά από όλους τους τίτλους που αρχίζουν με κεφαλαίο.","<b>Με <code>collation</code> και <code>locale: \"en\"</code></b>: Η δεύτερη εντολή· τα «jQuery» και «iText» φεύγουν από την κορυφή. Στην SQL, η σειρά εξαρτάται από τη συρραφή (collation) της βάσης.","<b>τα 19 βιβλία Java με 0 σελίδες</b>: Στη φθίνουσα σειρά σελίδων το 0 πηγαίνει στο τέλος. Εδώ σημαίνει «άγνωστος αριθμός», όπως στο Μέρος 1."],"titleHtml":"Ταξινόμηση κειμένου: τα πεζά στο τέλος"},{"title":"Κείμενο: λέξη ή κομμάτι λέξης","mins":2,"skippable":true,"notes":["**Ζητούμενο 11: το `/Java/` βρίσκει 38 τίτλους**: Αντιστοιχεί στο `LIKE '%Java%'` του φύλλου· βρίσκει τη Java και μέσα σε άλλες λέξεις.","**`\\b` πριν και μετά, 29**: Το `\\b` σημαίνει «όριο λέξης»: ανάμεσα σε γράμμα και σε κενό, σημείο στίξης ή αρχή και τέλος του τίτλου.","**οι 3 από αυτούς**: Είναι οι «JavaServer Faces in Action», «JavaFX in Action» και «JavaScript Application Design». Με `/^Java\\b/` μένουν 11.","**η `.` της regex αντιστοιχεί στο `_` του LIKE της SQL**: Στο φύλλο, `LIKE '_a_a%'`. Το `^` σημαίνει «στην αρχή», όπως στο `/^bc/` της διαφάνειας 2."],"type":"shell","notesHtml":["<b>Ζητούμενο 11: το <code>/Java/</code> βρίσκει 38 τίτλους</b>: Αντιστοιχεί στο <code>LIKE '%Java%'</code> του φύλλου· βρίσκει τη Java και μέσα σε άλλες λέξεις.","<b><code>\\b</code> πριν και μετά, 29</b>: Το <code>\\b</code> σημαίνει «όριο λέξης»: ανάμεσα σε γράμμα και σε κενό, σημείο στίξης ή αρχή και τέλος του τίτλου.","<b>οι 3 από αυτούς</b>: Είναι οι «JavaServer Faces in Action», «JavaFX in Action» και «JavaScript Application Design». Με <code>/^Java\\b/</code> μένουν 11.","<b>η <code>.</code> της regex αντιστοιχεί στο <code>_</code> του LIKE της SQL</b>: Στο φύλλο, <code>LIKE '_a_a%'</code>. Το <code>^</code> σημαίνει «στην αρχή», όπως στο <code>/^bc/</code> της διαφάνειας 2."],"titleHtml":"Κείμενο: λέξη ή κομμάτι λέξης"},{"title":"Τρία σημεία από το Μέρος 2","mins":1,"skippable":false,"notes":["**Τρία σημεία από το Μέρος 2**: Διαβάστε τα τρία σημεία, χωρίς νέα ύλη. Αν απομένει χρόνος, το διάλειμμα ξεκινά νωρίτερα.","**SQL και MongoDB λένε το ίδιο με άλλη σύνταξη**: Είναι οι αντιστοιχίες της σελίδας του εγχειριδίου και του λυμένου παραδείγματος.","**η ισότητα σημαίνει «περιέχει»**: Γι’ αυτό το ζητούμενο 4 δίνει 96 βιβλία και όχι 76.","**Java, java και JavaScript**: Το «java» με πεζά είναι άλλη τιμή, και το `/Java/` βρίσκει και το JavaScript."],"type":"remember","notesHtml":["<b>Τρία σημεία από το Μέρος 2</b>: Διαβάστε τα τρία σημεία, χωρίς νέα ύλη. Αν απομένει χρόνος, το διάλειμμα ξεκινά νωρίτερα.","<b>SQL και MongoDB λένε το ίδιο με άλλη σύνταξη</b>: Είναι οι αντιστοιχίες της σελίδας του εγχειριδίου και του λυμένου παραδείγματος.","<b>η ισότητα σημαίνει «περιέχει»</b>: Γι’ αυτό το ζητούμενο 4 δίνει 96 βιβλία και όχι 76.","<b>Java, java και JavaScript</b>: Το «java» με πεζά είναι άλλη τιμή, και το <code>/Java/</code> βρίσκει και το JavaScript."],"titleHtml":"Τρία σημεία από το Μέρος 2"},{"title":"Διάλειμμα","mins":2,"skippable":false,"notes":["**Επιστρέφουμε σε 15′**: Αφήστε τη διαφάνεια στην οθόνη σε όλο το διάλειμμα· η αντίστροφη μέτρηση ξεκινά μόνη της.","**Στο Μέρος 3**: Η συλλογή books εμφανίζεται ξανά στα παραδείγματα. Όποιος δεν ολοκλήρωσε την εισαγωγή, την ολοκληρώνει τώρα, με τη διαφάνεια 4 του Μέρους 1.","**η Εργασία 2 ενότητα προς ενότητα**: Οι ερωτήσεις για την Εργασία 2 έχουν χρόνο στο τέλος του Μέρους 3."],"type":"break","notesHtml":["<b>Επιστρέφουμε σε 15′</b>: Αφήστε τη διαφάνεια στην οθόνη σε όλο το διάλειμμα· η αντίστροφη μέτρηση ξεκινά μόνη της.","<b>Στο Μέρος 3</b>: Η συλλογή books εμφανίζεται ξανά στα παραδείγματα. Όποιος δεν ολοκλήρωσε την εισαγωγή, την ολοκληρώνει τώρα, με τη διαφάνεια 4 του Μέρους 1.","<b>η Εργασία 2 ενότητα προς ενότητα</b>: Οι ερωτήσεις για την Εργασία 2 έχουν χρόνο στο τέλος του Μέρους 3."],"titleHtml":"Διάλειμμα"}]};</script><script>(function () {
   var D = window.DECK, S = D.slides, N = S.length;
   var stage = document.getElementById('stage');
   var slides = [].slice.call(document.querySelectorAll('.slide'));
